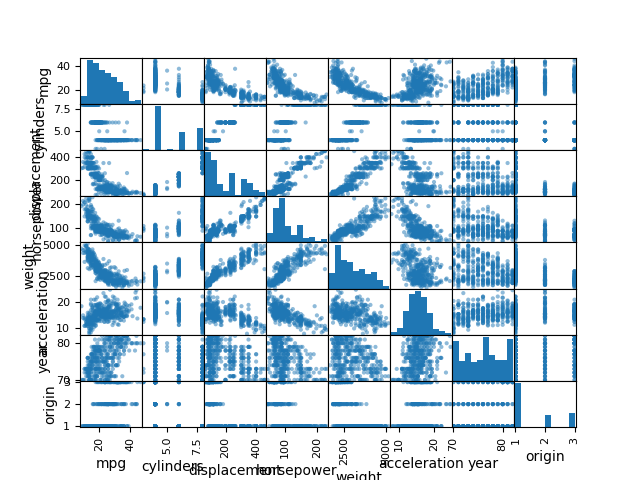
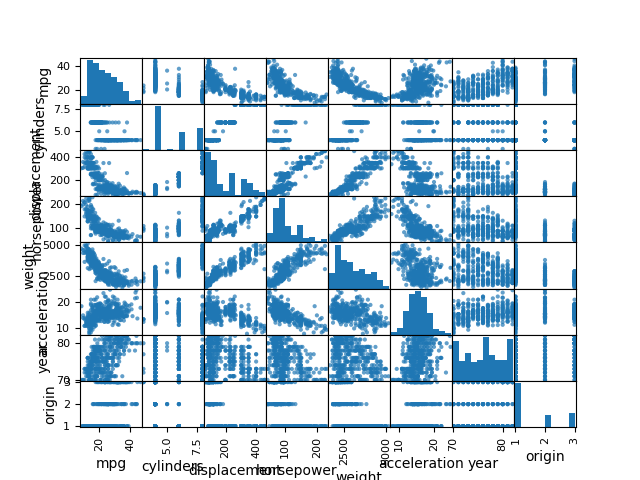
ch2e9 enlarge scatter matrix

diff --git a/ch2/exercises/e9/e9.py b/ch2/exercises/e9/e9.py
@@ -70,5 +70,6 @@ print(col_info)
 # (c) investigate the predictors
 
 #Let us first start by plotting a scatter_plot mattrix
-pd.plotting.scatter_matrix(Auto)
-plt.savefig('scatter_matrix.png')
+fig, ax = subplots() 
+pd.plotting.scatter_matrix(Auto, ax=ax, figsize=(20,20 ), alpha=0.7 )
+fig.savefig('scatter_matrix.png')
